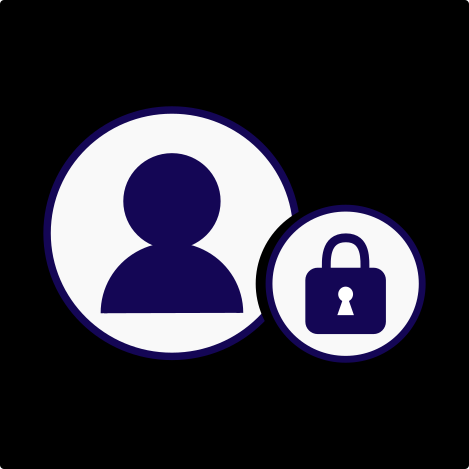
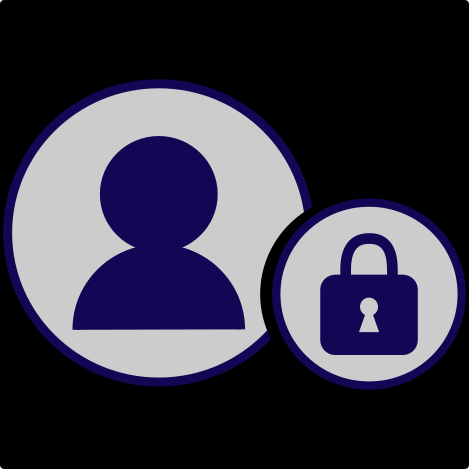
Update: Add selected text highlight style and update CoreUI project image. - Styled selected text for better visual feedback - Updated CoreUI project image for a more polished presentation

diff --git a/styles.css b/styles.css
@@ -52,6 +52,10 @@
   --xl-space: 3rem;
 }
 
+::selection {
+  background: var(--electric-indigo);
+}
+
 .wrapper.home {
   background: #000 url("./assets/images/unfoldTheUniverse.webp") no-repeat top
     center;
@@ -280,6 +284,7 @@ header > .action-section.transparent {
   }
   50% {
     box-shadow: 0 0 20px var(--azure-breeze); /* Peak glow */
+    transform: scale(1.1);
   }
   100% {
     box-shadow: 0 0 5px var(--azure-breeze); /* Back to start */
